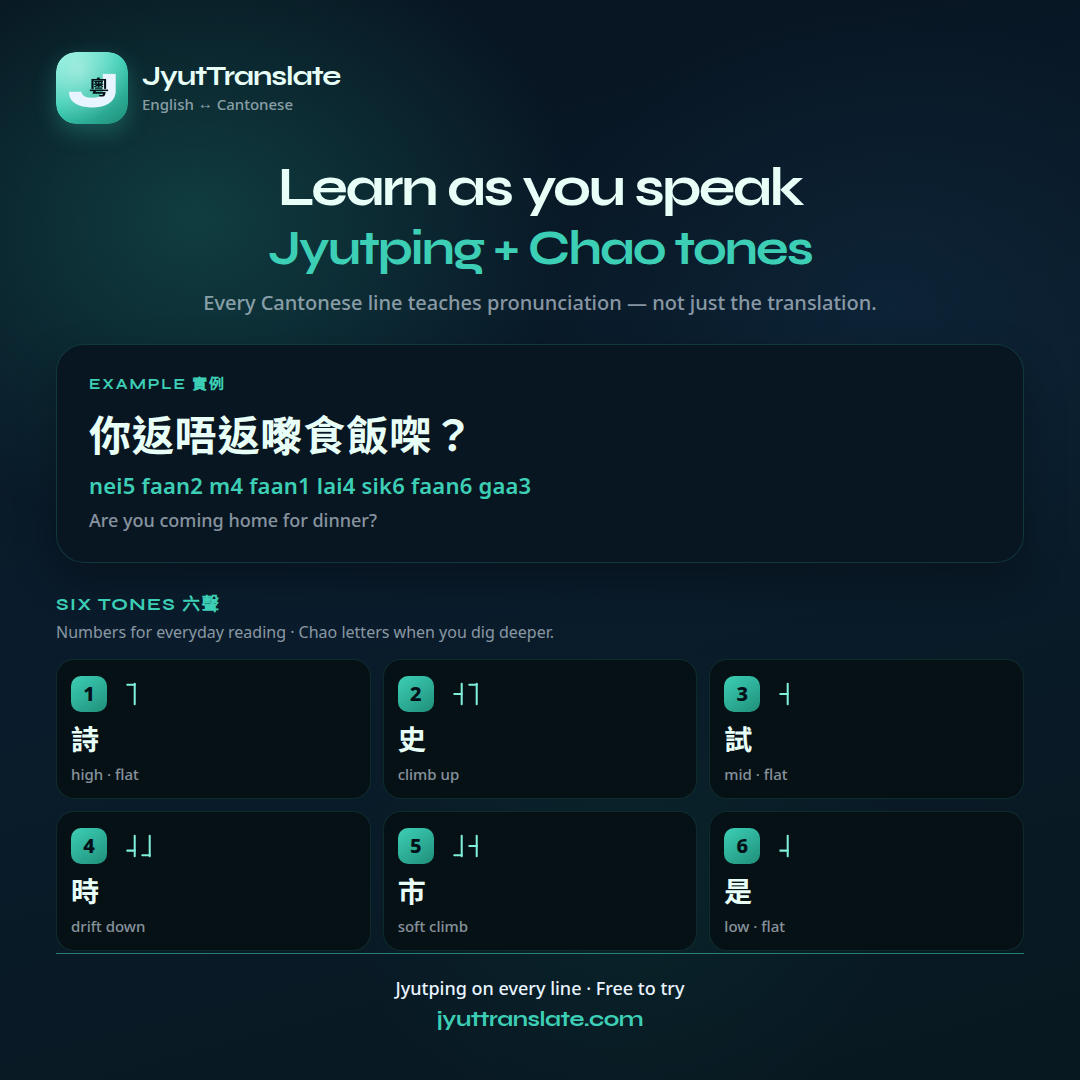
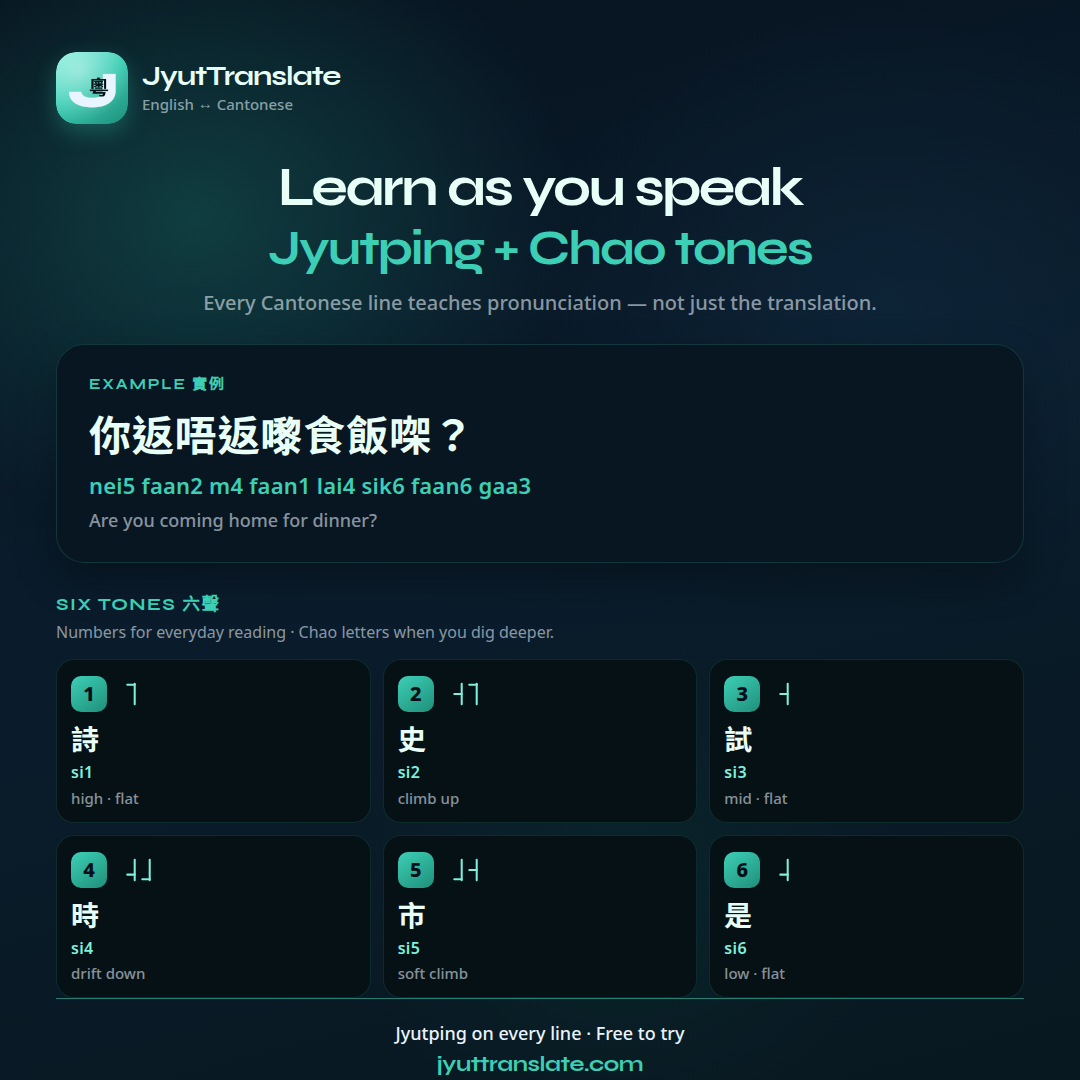
Show Jyutping (si1–si6) on IG tone map tiles.
Add romanization under each 詩史試時市是 cell on the portrait tone map
and square tone grid, matching tonesData.

Changed region(s): [[0.3667, 0.7028, 0.6417, 1.0], [0.0611, 0.7028, 0.1528, 0.9167], [0.6722, 0.7028, 0.7333, 0.9167]]

diff --git a/docs/social/ig-posts/jyutping-tones-portrait.html b/docs/social/ig-posts/jyutping-tones-portrait.html
@@ -74,6 +74,7 @@
             <svg viewBox="0 0 12 28" aria-hidden="true"><line x1="10" y1="3" x2="10" y2="25" stroke="currentColor" stroke-width="2.2" stroke-linecap="round"/><line x1="10" y1="4" x2="2" y2="4" stroke="currentColor" stroke-width="2.2" stroke-linecap="round"/></svg>
           </span>
           <div class="tone-han">詩</div>
+          <div class="tone-jp">si1</div>
         </div>
         <div class="tone-mini">
           <div class="tone-n">2</div>
@@ -82,6 +83,7 @@
             <svg viewBox="0 0 12 28" aria-hidden="true"><line x1="10" y1="3" x2="10" y2="25" stroke="currentColor" stroke-width="2.2" stroke-linecap="round"/><line x1="10" y1="4" x2="2" y2="4" stroke="currentColor" stroke-width="2.2" stroke-linecap="round"/></svg>
           </span>
           <div class="tone-han">史</div>
+          <div class="tone-jp">si2</div>
         </div>
         <div class="tone-mini">
           <div class="tone-n">3</div>
@@ -89,6 +91,7 @@
             <svg viewBox="0 0 12 28" aria-hidden="true"><line x1="10" y1="3" x2="10" y2="25" stroke="currentColor" stroke-width="2.2" stroke-linecap="round"/><line x1="10" y1="14" x2="2" y2="14" stroke="currentColor" stroke-width="2.2" stroke-linecap="round"/></svg>
           </span>
           <div class="tone-han">試</div>
+          <div class="tone-jp">si3</div>
         </div>
         <div class="tone-mini">
           <div class="tone-n">4</div>
@@ -97,6 +100,7 @@
             <svg viewBox="0 0 12 28" aria-hidden="true"><line x1="10" y1="3" x2="10" y2="25" stroke="currentColor" stroke-width="2.2" stroke-linecap="round"/><line x1="10" y1="24" x2="2" y2="24" stroke="currentColor" stroke-width="2.2" stroke-linecap="round"/></svg>
           </span>
           <div class="tone-han">時</div>
+          <div class="tone-jp">si4</div>
         </div>
         <div class="tone-mini">
           <div class="tone-n">5</div>
@@ -105,6 +109,7 @@
             <svg viewBox="0 0 12 28" aria-hidden="true"><line x1="10" y1="3" x2="10" y2="25" stroke="currentColor" stroke-width="2.2" stroke-linecap="round"/><line x1="10" y1="14" x2="2" y2="14" stroke="currentColor" stroke-width="2.2" stroke-linecap="round"/></svg>
           </span>
           <div class="tone-han">市</div>
+          <div class="tone-jp">si5</div>
         </div>
         <div class="tone-mini">
           <div class="tone-n">6</div>
@@ -112,6 +117,7 @@
             <svg viewBox="0 0 12 28" aria-hidden="true"><line x1="10" y1="3" x2="10" y2="25" stroke="currentColor" stroke-width="2.2" stroke-linecap="round"/><line x1="10" y1="19" x2="2" y2="19" stroke="currentColor" stroke-width="2.2" stroke-linecap="round"/></svg>
           </span>
           <div class="tone-han">是</div>
+          <div class="tone-jp">si6</div>
         </div>
       </div>
 

diff --git a/docs/social/ig-posts/jyutping-tones-square.html b/docs/social/ig-posts/jyutping-tones-square.html
@@ -49,6 +49,7 @@
             </span>
           </div>
           <div class="tone-han">詩</div>
+          <div class="tone-jp">si1</div>
           <div class="tone-shape">high · flat</div>
         </div>
         <div class="tone">
@@ -60,6 +61,7 @@
             </span>
           </div>
           <div class="tone-han">史</div>
+          <div class="tone-jp">si2</div>
           <div class="tone-shape">climb up</div>
         </div>
         <div class="tone">
@@ -70,6 +72,7 @@
             </span>
           </div>
           <div class="tone-han">試</div>
+          <div class="tone-jp">si3</div>
           <div class="tone-shape">mid · flat</div>
         </div>
         <div class="tone">
@@ -81,6 +84,7 @@
             </span>
           </div>
           <div class="tone-han">時</div>
+          <div class="tone-jp">si4</div>
           <div class="tone-shape">drift down</div>
         </div>
         <div class="tone">
@@ -92,6 +96,7 @@
             </span>
           </div>
           <div class="tone-han">市</div>
+          <div class="tone-jp">si5</div>
           <div class="tone-shape">soft climb</div>
         </div>
         <div class="tone">
@@ -102,6 +107,7 @@
             </span>
           </div>
           <div class="tone-han">是</div>
+          <div class="tone-jp">si6</div>
           <div class="tone-shape">low · flat</div>
         </div>
       </div>

diff --git a/docs/social/ig-posts/shared.css b/docs/social/ig-posts/shared.css
@@ -301,6 +301,15 @@ body {
   color: var(--ink-bright);
 }
 
+.tone-jp {
+  font-family: var(--font-english);
+  font-size: 16px;
+  font-weight: 600;
+  letter-spacing: 0.02em;
+  color: var(--jade-bright);
+  line-height: 1.1;
+}
+
 .tone-shape {
   font-size: 15px;
   font-weight: 500;
@@ -401,6 +410,11 @@ body {
 
 .tone-mini .tone-han {
   font-size: 24px;
+}
+
+.tone-mini .tone-jp {
+  font-size: 14px;
+  margin-top: 1px;
 }
 
 .post--portrait .hero {
